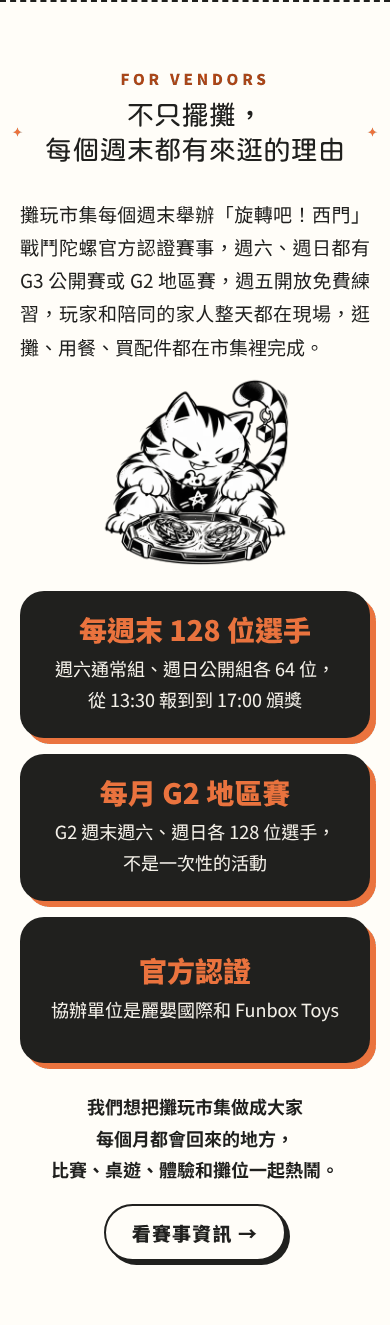
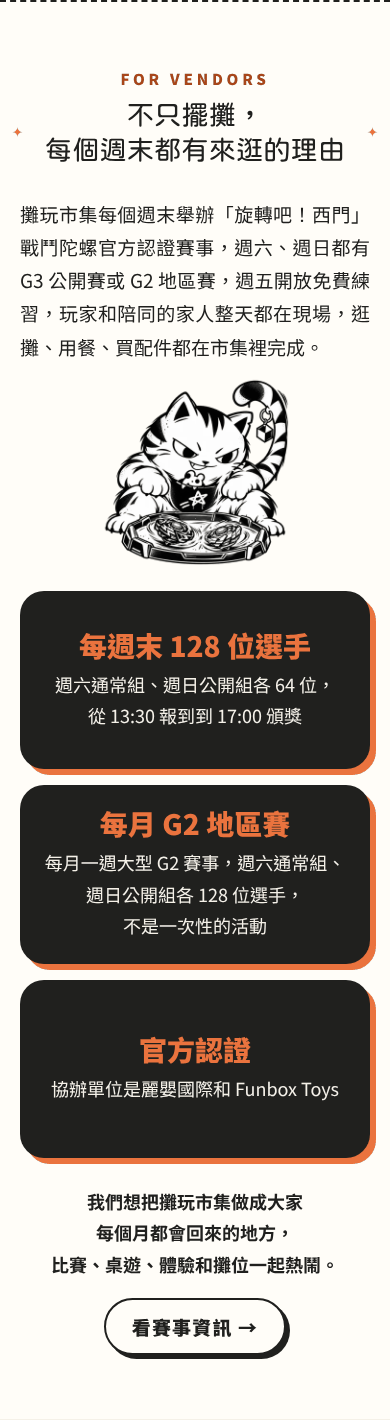
統一 G2 說法：每月一週大型 G2 賽事（週六通常組、週日公開組）
- /cup/ G2 卡片：每月一週／大型 G2 賽事（週六通常組、週日公開組）／各 128 人，NT$300，保留「請隨時留意比賽資訊」
- 每月賽事說明、FAQ「多久舉辦一次比賽」改同一說法，該週不辦 G3
- 首頁橫幅小字、FOR VENDORS 卡片 2 內文同步
- 更新每月賽事、首頁橫幅、FOR VENDORS 1440／390 截圖

Claude-Session: https://claude.ai/code/session_012dQHuckgmktwtxDEBvdD1o

Changed region(s): [[0.0308, 0.0309, 0.9846, 0.7736], [0.0308, 0.7736, 0.9846, 0.9592], [0.0308, 0.0928, 0.0615, 0.1238]]

diff --git a/cup/index.html b/cup/index.html
@@ -244,9 +244,9 @@
             <p>「旋轉吧！西門」系列賽事每個月都在西門町電影公園舉辦，<span class="nobr">比賽日在週六、週日</span>（攤玩市集每週五、六、日營業）。</p>
             <ul class="cup-monthly-types">
               <li><picture class="cup-monthly-mark"><source srcset="../assets/cup/ximen-cup-g3-white.svg" type="image/svg+xml"><img src="../assets/cup/ximen-cup-g3-white.webp" alt="西門盃 G3 公開賽" width="1200" height="400" loading="lazy"></picture><span class="cup-monthly-count">每個週末 <strong>2</strong> 場</span><span class="cup-monthly-detail">週六通常組、週日公開組，<span class="nobr">各 64 人，NT$200</span></span></li>
-              <li><picture class="cup-monthly-mark"><source srcset="../assets/cup/ximen-cup-g2-white.svg" type="image/svg+xml"><img src="../assets/cup/ximen-cup-g2-white.webp" alt="西門盃 G2 地區賽" width="1200" height="400" loading="lazy"></picture><span class="cup-monthly-count">每月<strong>一場</strong></span><span class="cup-monthly-tip">請隨時留意比賽資訊</span><span class="cup-monthly-detail">週六通常組、週日公開組，<span class="nobr">各 128 人，NT$300</span></span></li>
+              <li><picture class="cup-monthly-mark"><source srcset="../assets/cup/ximen-cup-g2-white.svg" type="image/svg+xml"><img src="../assets/cup/ximen-cup-g2-white.webp" alt="西門盃 G2 地區賽" width="1200" height="400" loading="lazy"></picture><span class="cup-monthly-count">每月<strong>一週</strong></span><span class="cup-monthly-detail">大型 G2 賽事<span class="nobr">（週六通常組、週日公開組）</span><br><span class="nobr">各 128 人，NT$300</span></span><span class="cup-monthly-tip">請隨時留意比賽資訊</span></li>
             </ul>
-            <p class="cup-monthly-note">通常組<span class="nobr">限 6–12 歲</span>、公開組<span class="nobr">限 12 歲以上</span>（G3、G2 相同）。G2 週末不辦 G3。以上皆為官方認證賽事。每月賽程確認後，我們會一次公布並開放當月所有場次報名，可以一次報名多場，方便玩家提前安排。如遇場地活動需要調整，將提前公告延期日期。</p>
+            <p class="cup-monthly-note">通常組<span class="nobr">限 6–12 歲</span>、公開組<span class="nobr">限 12 歲以上</span>（G3、G2 相同）。大型 G2 賽事那一週不辦 G3。以上皆為官方認證賽事。每月賽程確認後，我們會一次公布並開放當月所有場次報名，可以一次報名多場，方便玩家提前安排。如遇場地活動需要調整，將提前公告延期日期。</p>
           </article>
           <article class="cup-card cup-practice">
             <img class="cup-card-cat cup-practice-art" src="../assets/cup/cat-friends-camp.webp" alt="攤玩貓和朋友在露營桌邊吃東西、玩桌遊" width="900" height="675" loading="lazy">
@@ -283,7 +283,7 @@
           </details>
           <details class="faq">
             <summary>多久舉辦一次比賽？</summary>
-            <div class="faq-body"><p>每個週末都有比賽：週六通常組、週日公開組各 1 場 G3 公開賽；每月有 1 個週末改辦 G2 地區賽（週六通常組、週日公開組各 1 場），G2 週末不辦 G3。通常組<span class="nobr">限 6–12 歲</span>、公開組<span class="nobr">限 12 歲以上</span>。當月賽程確認後會一次開放報名，可以一次報名多場。請追蹤 LINE 官方帳號 <a href="https://line.me/R/ti/p/@238nrzdb" target="_blank" rel="noopener">@238nrzdb<span class="sr-only">（另開新分頁）</span></a> 取得最新公告。</p></div>
+            <div class="faq-body"><p>每個週末都有比賽：週六通常組、週日公開組各 1 場 G3 公開賽；每月一週舉辦大型 G2 賽事（週六通常組、週日公開組），該週不辦 G3。通常組<span class="nobr">限 6–12 歲</span>、公開組<span class="nobr">限 12 歲以上</span>。當月賽程確認後會一次開放報名，可以一次報名多場。請追蹤 LINE 官方帳號 <a href="https://line.me/R/ti/p/@238nrzdb" target="_blank" rel="noopener">@238nrzdb<span class="sr-only">（另開新分頁）</span></a> 取得最新公告。</p></div>
           </details>
           <details class="faq">
             <summary>沒有比賽的時候可以去練習嗎？</summary>

diff --git a/index.html b/index.html
@@ -106,7 +106,7 @@
             <div class="cup-promo-info">
               <p class="cup-promo-meta"><span>戰鬥陀螺 G3、G2 公開賽</span><span class="cup-promo-date"><span class="nobr">11/28（六）</span><span class="nobr">–11/29（日）</span></span></p>
               <span class="cup-promo-cta">看賽事資訊 →</span>
-              <p class="cup-promo-monthly"><span class="nobr">每個週末都有 G3 公開賽，</span><span class="nobr">每月一個週末 G2 地區賽</span></p>
+              <p class="cup-promo-monthly"><span class="nobr">每個週末都有 G3 公開賽，</span><span class="nobr">每月一週大型 G2 賽事</span></p>
               <p class="cup-promo-co">協辦：麗嬰國際、Funbox Toys</p>
             </div>
           </div>
@@ -225,7 +225,7 @@
           </li>
           <li class="vendors-why-card">
             <strong>每月 G2 地區賽</strong>
-            <span>G2 週末週六、週日各 128 位選手，<span class="nobr">不是一次性的活動</span></span>
+            <span>每月一週大型 G2 賽事，週六通常組、週日公開組各 128 位選手，<span class="nobr">不是一次性的活動</span></span>
           </li>
           <li class="vendors-why-card">
             <strong>官方認證</strong>
